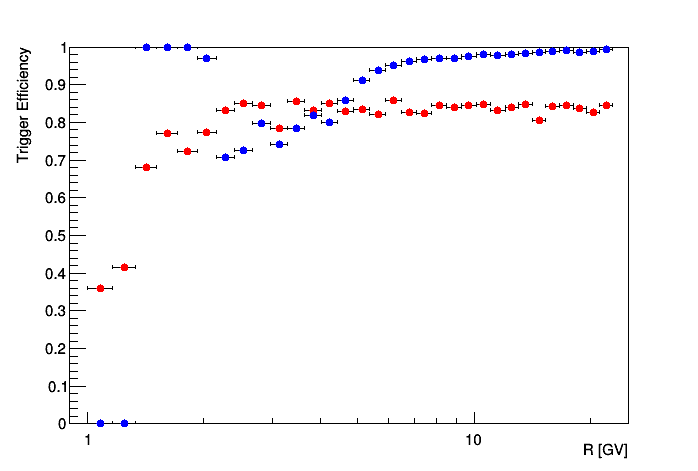
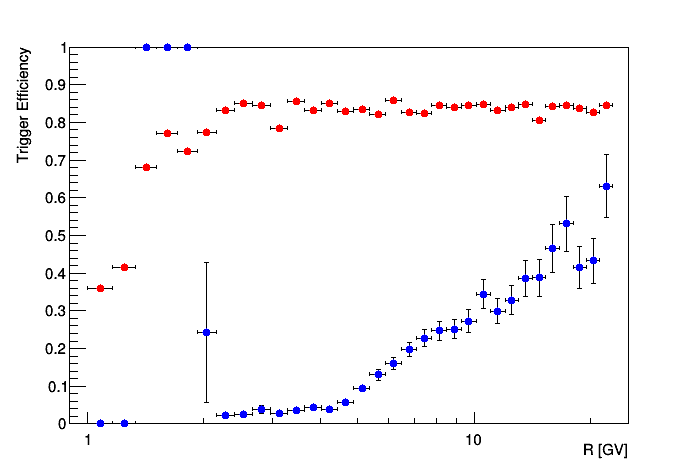
update 12-12-20

diff --git a/ProtonAnalysis.C b/ProtonAnalysis.C
@@ -777,13 +777,13 @@ void Anaaqra::CutEff() {
     ce_mc_err[i] = TMath::Sqrt((1/Cpar_MC->GetBinContent(i+1) + 1/Btof_MC->GetBinContent(i+1)) + (1/Ccon_MC->GetBinContent(i+1) + 1/Btof_MC->GetBinContent(i+1))
                    + (1/Cbet_MC->GetBinContent(i+1) + 1/Btof_MC->GetBinContent(i+1)) + (1/Cchi_MC->GetBinContent(i+1) + 1/Btrk_MC->GetBinContent(i+1))
                    + (1/Cinn_MC->GetBinContent(i+1) + 1/Btrk_MC->GetBinContent(i+1)) + (1/Clay_MC->GetBinContent(i+1) + 1/Btrk_MC->GetBinContent(i+1)));
-    ce_mc_data[i] = TMath::Sqrt((1/Cpar_data->GetBinContent(i+1) + 1/Btof_data->GetBinContent(i+1)) + (1/Ccon_data->GetBinContent(i+1) + 1/Btof_data->GetBinContent(i+1))
+    ce_data_err[i] = TMath::Sqrt((1/Cpar_data->GetBinContent(i+1) + 1/Btof_data->GetBinContent(i+1)) + (1/Ccon_data->GetBinContent(i+1) + 1/Btof_data->GetBinContent(i+1))
                     + (1/Cbet_data->GetBinContent(i+1) + 1/Btof_data->GetBinContent(i+1)) + (1/Cchi_data->GetBinContent(i+1) + 1/Btrk_data->GetBinContent(i+1))
                     + (1/Cinn_data->GetBinContent(i+1) + 1/Btrk_data->GetBinContent(i+1)) + (1/Clay_data->GetBinContent(i+1) + 1/Btrk_data->GetBinContent(i+1))
                     + (1/Cgeo_data->GetBinContent(i+1) + 1/Btrk_data->GetBinContent(i+1)));
   }
   TGraphErrors* ce_mc_graph = new TGraphErrors(32, Bin_mid, ce_mc, Bin_err, ce_mc_err);
-  TGraphErrors* ce_data_graph = new TGraphErrors(32, Bin_mid, ce_data, Bin_err, ce_mc_data);
+  TGraphErrors* ce_data_graph = new TGraphErrors(32, Bin_mid, ce_data, Bin_err, ce_data_err);
   // Canvas
   TCanvas* c_CutEff = new TCanvas("c_CutEff", "Selection Efficiency per Rigitidy Bin");
   ce_mc_graph->Draw("AP");
